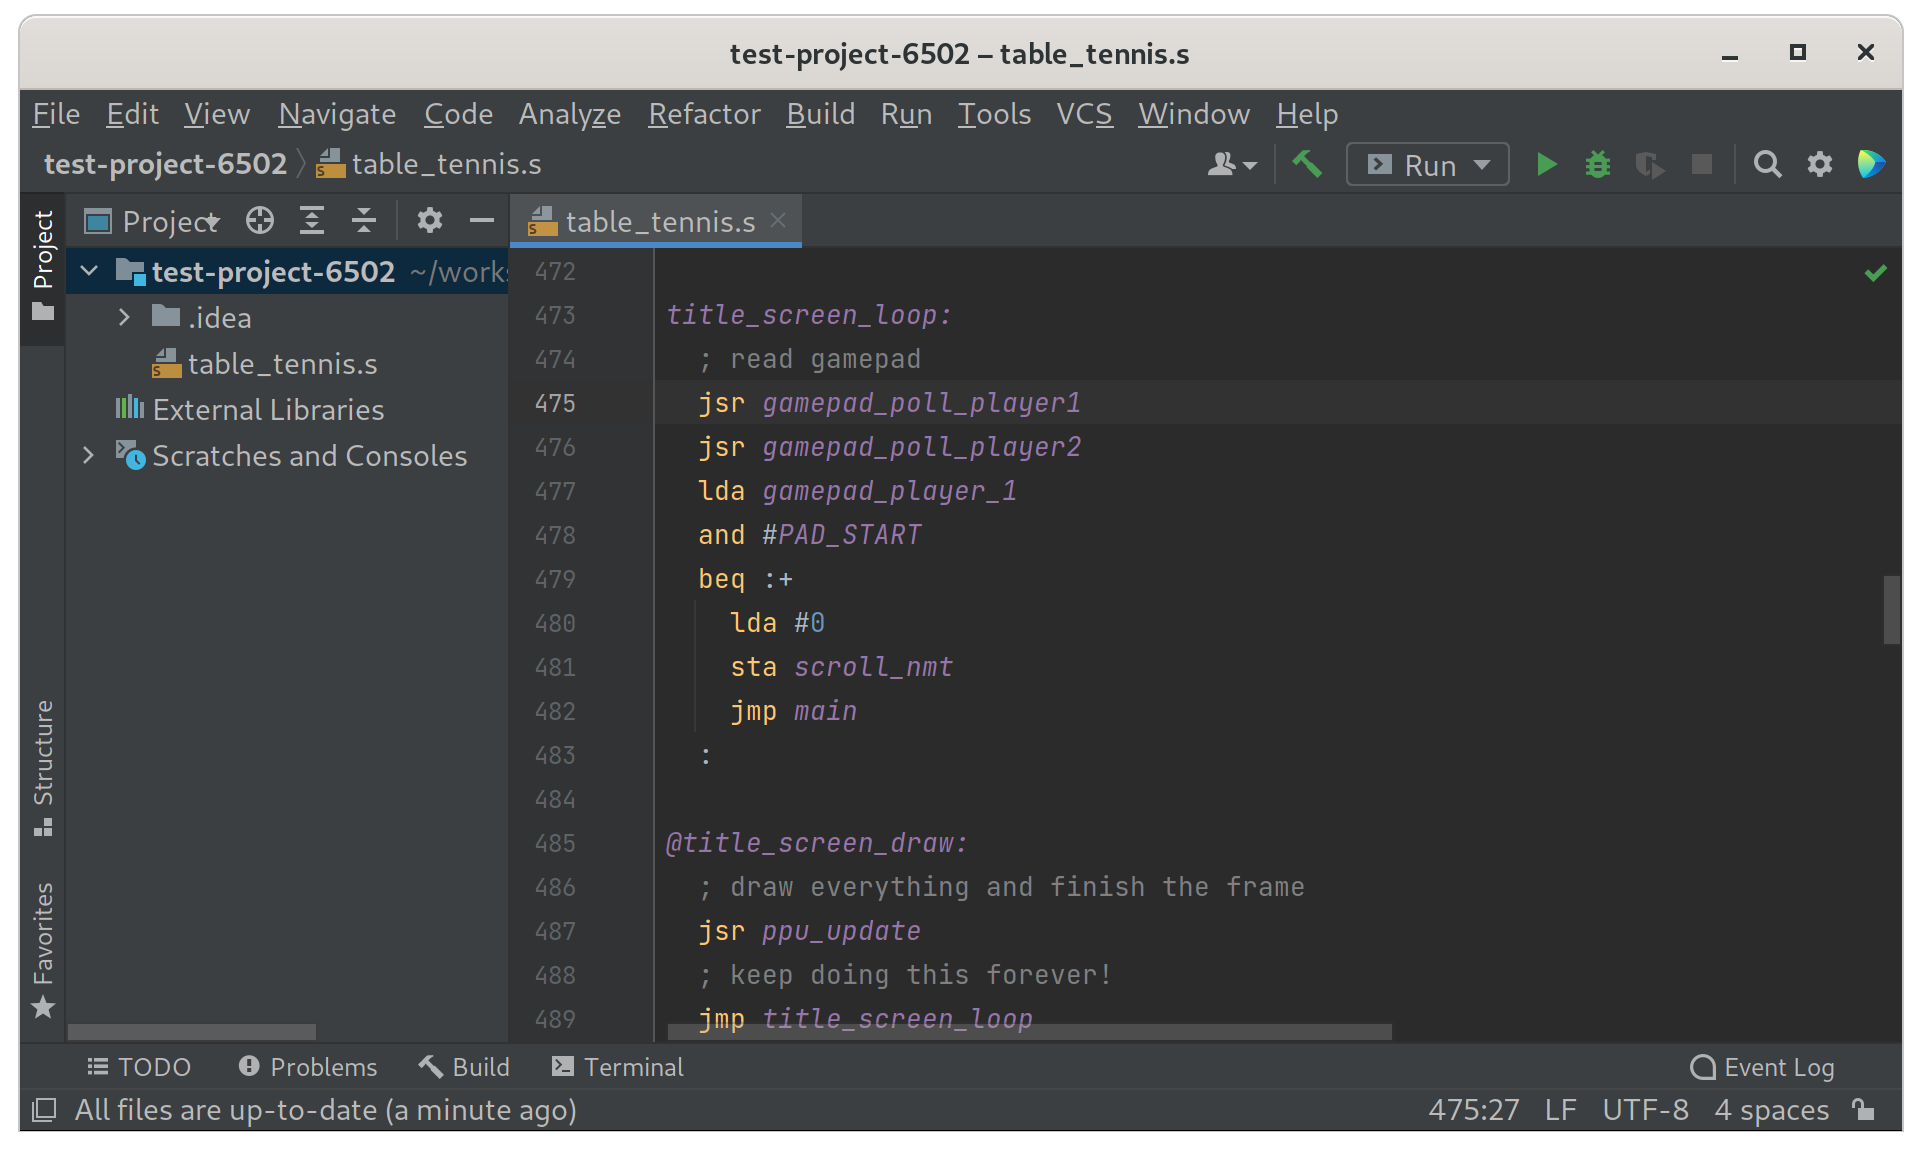
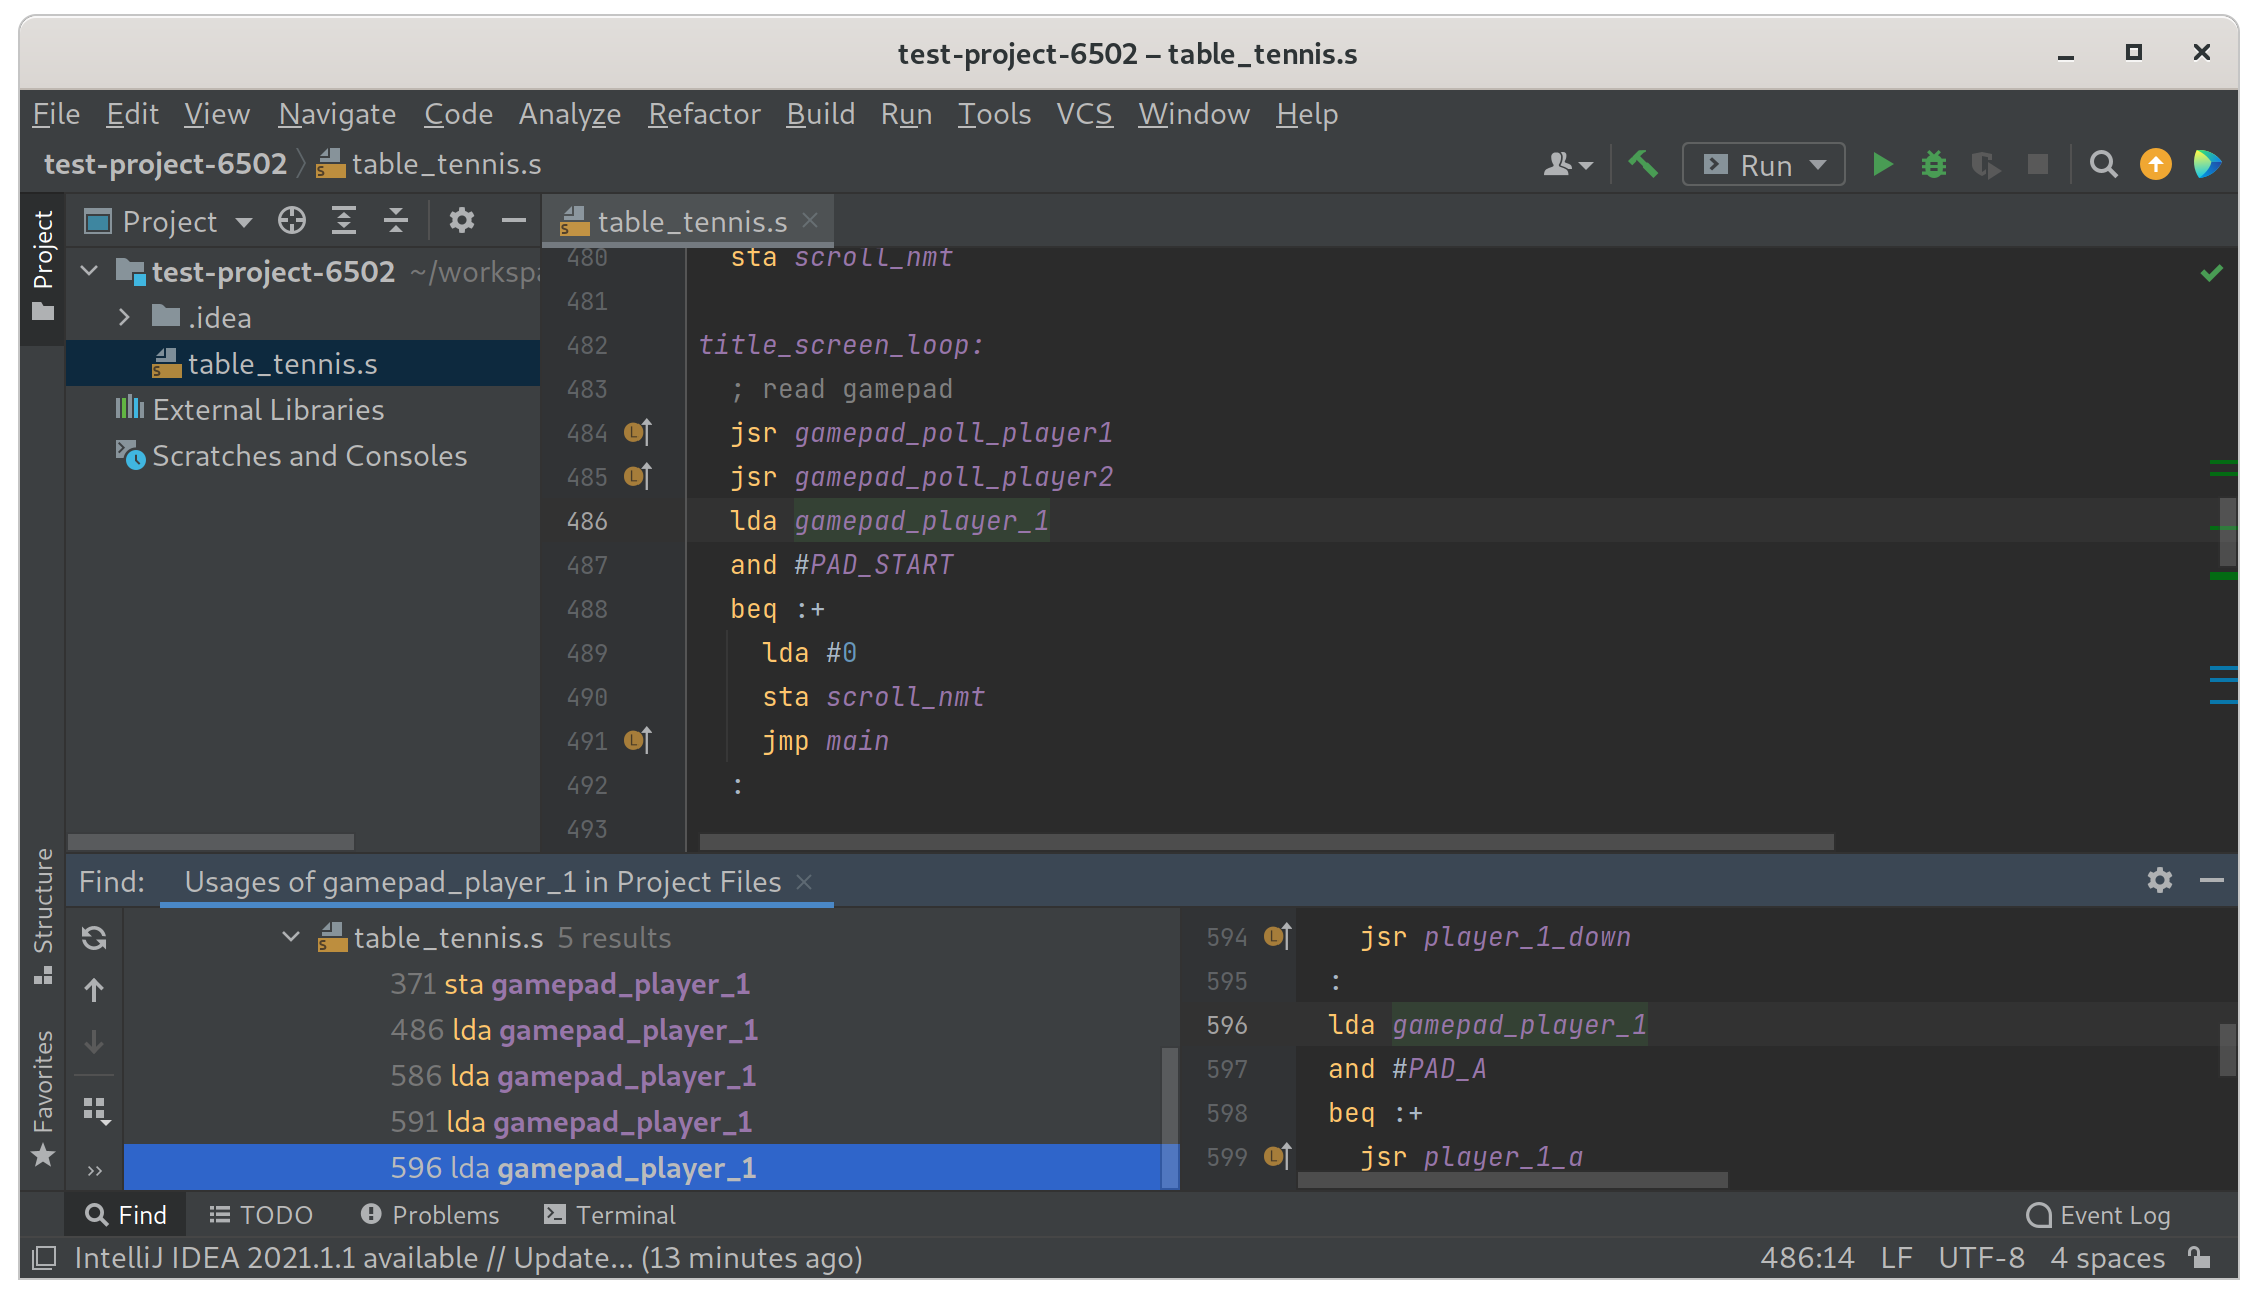
improve rename feature, descriptions, replace screen capture

diff --git a/src/main/java/org/ca65/AsmFindUsagesProvider.java b/src/main/java/org/ca65/AsmFindUsagesProvider.java
@@ -7,6 +7,7 @@ import com.intellij.psi.PsiElement;
 import com.intellij.psi.tree.TokenSet;
 import org.ca65.psi.AsmMarker;
 import org.ca65.psi.AsmTypes;
+import org.ca65.psi.impl.AsmPsiImplUtil;
 import org.jetbrains.annotations.Nls;
 import org.jetbrains.annotations.NonNls;
 import org.jetbrains.annotations.NotNull;
@@ -37,12 +38,18 @@ public class AsmFindUsagesProvider implements FindUsagesProvider {
 
     @Override
     public @Nls @NotNull String getType(@NotNull PsiElement element) {
-        return "Nothing";
+        if(element instanceof AsmMarker) {
+            return "label";
+        }
+        return "identifier";
     }
 
     @Override
     public @Nls @NotNull String getDescriptiveName(@NotNull PsiElement element) {
-        return "Nothing";
+        if(element instanceof AsmMarker) {
+            return AsmPsiImplUtil.getName((AsmMarker) element);
+        }
+        return element.getText();
     }
 
     @Override

diff --git a/README.md b/README.md
@@ -4,6 +4,15 @@ This IntelliJ plugin provides basic support for 6502 assembly language. It is su
 
 ![6502 Example in IntelliJ](screenshot/6502_intellij_example.png)
 
+## Features
+
+- Syntax highlighting
+- Go to the definition of a label
+- Find usages of a label
+- Refactor/rename a label and its usages
+- Comment/uncomment blocks of code
+- Code folding for scopes and procedures
+
 ## Installation
 
 This plugin is not currently published to the JetBrains Marketplace.
